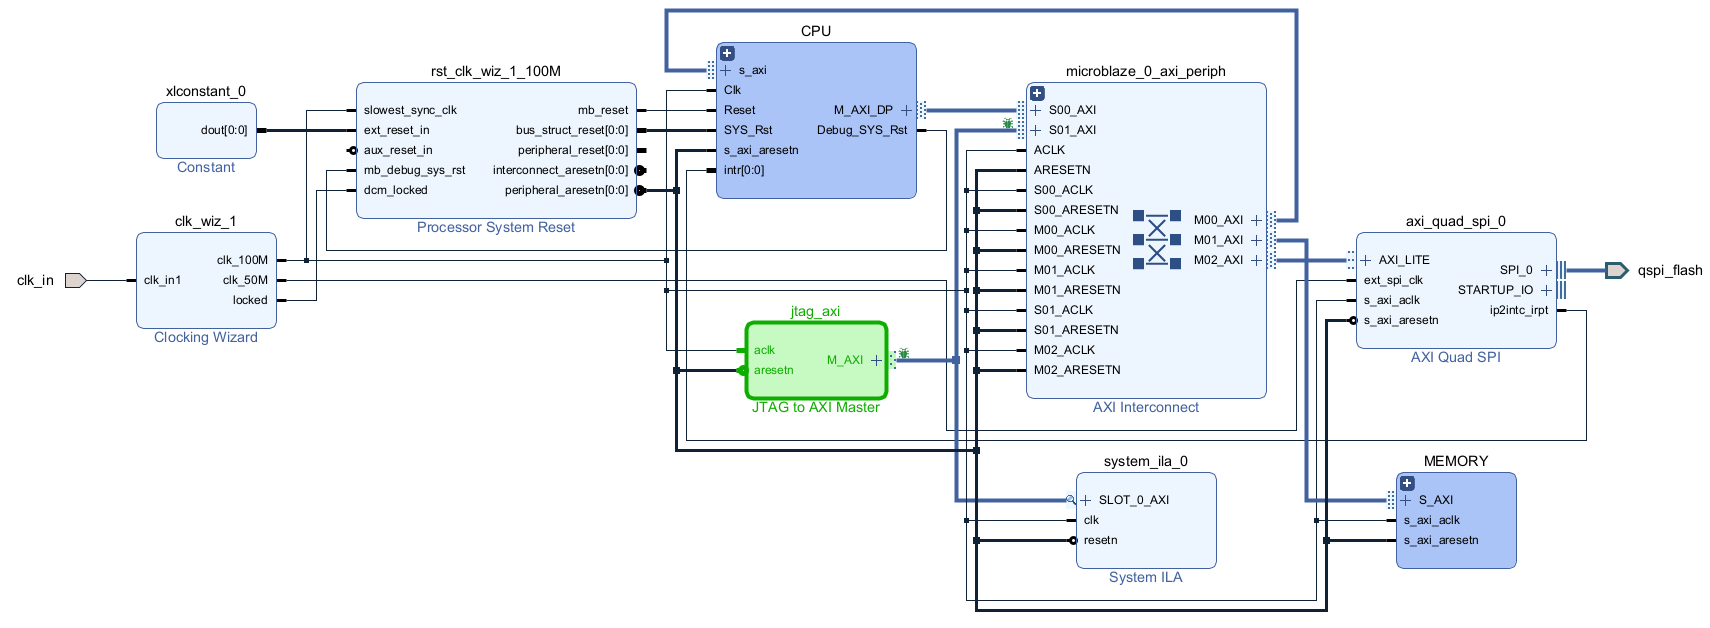
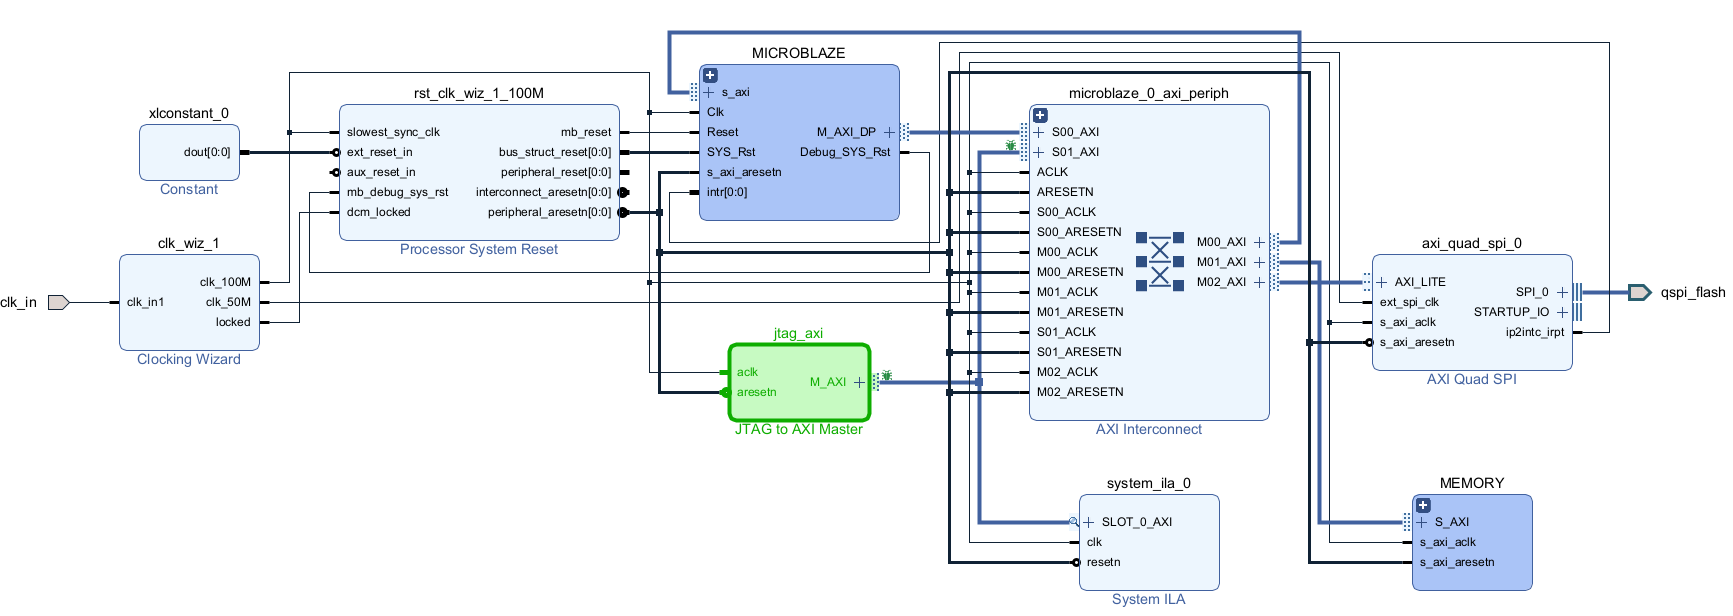
readme fix

Changed region(s): [[0.0, 0.0, 1.0, 0.987]]

diff --git a/README.md b/README.md
@@ -1,24 +1,30 @@
-# JTAG to AXI Master
+# JTAG to AXI Master IP
 
-Xilinx'in `JTAG to AXI Master` isimli bir IP'si var. Literatürde gördüğüm kadarıyla yaygınca kullanılan bir IP değil. Esasında debug amaçlı tasarlanmış bir IP. Özellikle birden fazla adres alanına tek bir yerden erişmek için kullanılır.
+Xilinx'in `JTAG to AXI Master` isimli bir IP'si var. Literatürde gördüğüm kadarıyla yaygınca kullanılan bir IP değil. Esasında debug amaçlı tasarlanmış bir IP. Özellikle birden fazla adres alanına `AXI-Lite` veya `AXI Memory Mapped` arayüzü ile tek bir yerden erişmek için kullanılıyor. Aşağıda JTAG to AXI Master IP'sinin proje içerisinde nasıl duracağı ile ilgili örnek bir figür var:
+
+![capture0](assets/figure1.drawio.png)
+
+JTAG to AXI Master IP'sinin **adres alanı (address space)** bulunmuyor. Bu yüzden istediği adrese yazma, istediği adresten okuma işlemini yapabiliyor. Bunu yaparken başka bir IP'yi projeden çıkarmamıza gerek kalmıyor.
+
+Temelde, bu IP sayesinde Vivado harici herhangi bir programa gerek kalmadan; FPGA programlandıktan sonra `TCL` komutu ile yukarıdaki görseldeki yapıyı koruyarak istediğimiz AXI-Lite veya AXI Memory Mapped slave arayüzüne erişebilmekteyiz.
 
 ## Motivasyon
 
-Mesela; proje gereği AXI IIC, AXI Quad SPI ve AXI Bram Controller IP'lerini kullanıyoruz. Bu durumda her biri için bir adres offset'i belirleniyor (Vivado veya kullanıcı tarafından). Bu adresler dikakt alınarak projenin gereği veya IP gereği olarak ilgili kısımlara ilgili veriler yazılır. Fakat henüz geliştirme aşamasında küçük denemeler yapabilmek için ilgili IP'ye AXI-Lite veya AXI Memory Mapped üzerinden erişmemiz gerekiyor. İşte bu IP sayesinde IP'lerin ilgili AXI arayüzlerine erişim sağlayabiliyoruz. Bunu yapmak için Vitis veya eski ismiyle Xilinx SDK veya işletim sistemine ihtiyacımız bulunmuyor.
+Mesela; proje gereği **AXI IIC**, **AXI Quad SPI** ve **AXI Bram Controller** IP'lerini kullanıyoruz. Bu durumda her biri için bir adres **offset'i** belirleniyor (Vivado veya kullanıcı tarafından). Bu adresler dikkate alınarak projenin veya IP'lerin gereği olarak ilgili kısımlara veriler yazılır. Fakat henüz geliştirme aşamasında küçük denemeler yapabilmek için ilgili IP'ye AXI-Lite veya AXI Memory Mapped üzerinden erişmemiz ve yazma/okuma yapmamız gerekiyor. İşte JTAG to AXI Master IP'si sayesinde projeye dahil IP'lerin ilgili **AXI arayüzlerine** erişim sağlayabiliyoruz. Bunu yapmak için **Vitis** veya eski ismiyle **Xilinx SDK** veya işletim sistemi gibi kompleks ve başka programlara ihtiyaç duyan çözümlere gerek olmuyor.
 
 ## Diğer Alternatifler
 
-Diğer alternatif çözümlerden de bahsetmek gerekir. Aşağıda diğer çözümlerin nasıl yapıldığı konusunda kısa anlatımlar yer almaktadır.
+Diğer alternatif çözümlerden de bahsetmek gerekir. Aşağıda diğer çözümler konusunda kısa anlatımlar yer alıyor:
 
-- Xilinx Vitis (eski adıyla Xilinx SDK) programının xsct desteği bulunmakta. Bunun için `MicroBlaze Debug Module (MDM)` IP'sine ihtiyaç var. Çeşitli işlemler sonrası `mwr` veya `mrd` komutlarıyla ilgili adreslere gerekli veriler yazılabilir.
-- Microblaze IP'sini tasarıma ekleyip Xilinx Vitis (veya Xilinx SDK) üzerinden `Memory` ekranını açarak ilgili adreslere gerekli veriler yazılabilir.
+- Xilinx Vitis (eski adıyla Xilinx SDK) programının **xsct** desteği bulunmakta. Bunun için `MicroBlaze Debug Module (MDM)` IP'sine ihtiyaç var. Çeşitli işlemler sonrası `mwr` veya `mrd` komutlarıyla ilgili adreslere gerekli veriler yazılabilir.
+- Microblaze IP'sini tasarıma ekleyip Xilinx Vitis (veya Xilinx SDK) üzerinden `Memory` ekranını açarak ilgili adreslere gerekli veriler GUI yardımıyla yazılabilir.
 - İşletim sistemi kurabildiğimiz kartlarda `devmem` kullanılabilir.
 
 ## JTAG to AXI Master IP'sinin Avantajları
 
 Bu IP'nin en büyük avantajı Vivado haricinde herhangi bir programa veya ekrana ihtiyaç duymamamız. Yani bu IP'yi Vivado yoluyla FPGA'i programladıktan sonra `tcl console` kısmını kullanarak kullanabiliyoruz.
 
-Fakat diğer çözümlerde ekstra olarak bir sürü işlem yapmak gerekebiliyor veya birden fazla programa ihtiyaç duyabiliyoruz. Bu yüzden erken aşama geliştirmelerinde bu IP'yi kullanmak çok mantıklı bir araç haline geliyor.
+Öte yandan, diğer çözümlerde ekstra olarak bir sürü işlem yapmak gerekebiliyor veya birden fazla programa ihtiyaç duyabiliyoruz. Bu yüzden erken aşama geliştirmelerinde bu IP'yi kullanmak çok mantıklı bir araç haline geliyor.
 
 ## Nasıl Kullanabiliriz
 
@@ -26,29 +32,29 @@ Fakat diğer çözümlerde ekstra olarak bir sürü işlem yapmak gerekebiliyor 
 
 ![capture1](assets/Capture1.png)
 
-Yukarıda MICROBLAZE ile belirtilen subblock içerisinde Microblaze ve diğer gerekli IP'ler bulunmaktadır. MEMORY ile belirtilen kısımda Block Memory Generator ve AXI BRAM controller IP'leri yer almaktadır.
+Yukarıda `MICROBLAZE` ile belirtilen subblock içerisinde Microblaze ve diğer gerekli IP'ler bulunmaktadır. `MEMORY` ile belirtilen kısımda Block Memory Generator ve AXI BRAM controller IP'leri yer almaktadır.
 
-Yeşil ile belirtilen IP üzerine çalışacağımız IP yani JTAG to AXI Master IP'si. Fark edileceği üzere AXI ile erişebildiğimiz iki IP var. Biri AXI Quad SPI, diğeri ise MEMORY subblock'u.
+Yeşil ile belirtilen IP, üzerine çalışacağımız IP yani JTAG to AXI Master IP'si. Fark edileceği üzere AXI ile erişebildiğimiz iki IP var. Biri AXI Quad SPI, diğeri ise MEMORY subblock'u.
 
-Ayrıca AXI transactionları daha iyi gözlemleyebilmek adına ILA bağladım. Bu sayede AXI Memory Mapped arayüz ayarlandığında burst veri akışını doğrulayacağız. AXI-lite arayüz ayarında ise sadece veri akışını gözlemleyebileceğiz.
+Ayrıca AXI transactionları daha iyi gözlemleyebilmek adına `ILA` bağladım. Bu sayede AXI Memory Mapped arayüz ayarlandığında **burst** veri akışını doğrulayacağız. AXI-lite arayüz ayarında ise sadece veri akışını gözlemleyebileceğiz.
 
-Aşağıda da IP ayarları mevcut. Görüleceği üzere konfigüre etmesi çok kolay. Tek yapmamız gereken ihtiyaca göre AXI-Lite veya AXI Memory Mapped buslarından birini seçmek. Burst veri aktarımı isteniyorsa AXI Memory Mapped seçilmeli. Yoksa AXI-Lite seçilmesi IP'nin harcayacağı kaynak açısından daha verimli olacaktır.
+Aşağıda IP ayarları mevcut. Görüleceği üzere konfigüre etmesi çok kolay. Tek yapmamız gereken ihtiyaca göre AXI-Lite veya AXI Memory Mapped buslarından birini seçmek. Burst veri aktarımı isteniyorsa `AXI4` seçilmeli. Böyle bir istek veya gerek yoksa `AXI4LITE` seçilmesi IP'nin harcayacağı kaynak açısından daha verimli olacaktır.
 
 ![capture2](assets/Capture2.png)
 
-Her ne kadar bu IP'yi erken aşama geliştirme aşamalarında kullansak da projenin son halinde de tasarım içerisinde kalabilir. Yani mesela Microblaze kullandığımız bir proje düşünelim. Normalde projenin son halinde Vitis üzerinden yazacağımız kod ile AXI Quad SPI IP'sini konfigüre edebiliriz veya veri okuma-yazma yapılacak. Yine de bu IP proje içerisinde Microblaze üzerinde çalışan kod ile birlikte bulunabilir. Böylece geliştirme aşaması sonrası çıkabilecek problemlerde hızlıca kullanabileceğimiz bir debug IP'si gibi yer alır.
+Her ne kadar bu IP'yi erken aşama geliştirme aşamalarında kullansak da projenin son halinde de tasarım içerisinde bırakabiliriz. Mesela **Microblaze** kullandığımız bir proje düşünelim. Normalde projenin son halinde Vitis üzerinden yazacağımız kod ile AXI Quad SPI IP'sini konfigüre edebiliriz veya veri okuma-yazma yapabiliriz. Yine de bu IP, proje içerisinde Microblaze üzerinde çalışan kod ile birlikte bulunabilir. Böylece geliştirme aşaması sonrası çıkabilecek problemlerde hızlıca kullanabileceğimiz bir alternatif olabilir.
 
-Burada ILA veya VIO'dan farkımız çok daha az kaynak harcayarak real-time (gerçek zamanlı) debugging yapabilmemiz.
+Burada **ILA** veya **VIO'dan** farkımız çok daha az kaynak harcayarak gerçek zamanlı (real-time) debugging yapabilmemiz ve AXI gibi fazlaca portu bulunan bir bus'ı rahatlıkla sürebilmemiz.
 
 Aşağıda adres editör kısmını paylaştım. Gerçek zamanlı denemeleri yaparken buradaki adresleri offset olarak kullanacağız.
 
 ![capture3](assets/Capture3.png)
 
-Tasarıma ait bitstream oluşturulduktan ve Vivado Hardware Manager yöntemi ile FPGA programlandıktan sonra soldaki Hardware kısmı aşağıdaki gibi gözükür. İkinci sırada da gözüktüğü üzere JTAG to AXI Master IP'sini hardware tanımaktadır. Bu durum ILA ve VIO gibi IP'lerde de mevcuttur.
+Tasarıma ait bitstream oluşturulduktan ve Vivado Hardware Manager yöntemi ile FPGA programlandıktan sonra soldaki `Hardware` kısmı aşağıdaki gibi gözükür. İkinci sırada da gözüktüğü üzere JTAG to AXI Master IP'sini hardware tanımaktadır. Bu durum ILA ve VIO gibi IP'lerde de mevcuttur.
 
 ![capture4](assets/Capture4.png)
 
-Bu noktadan sonra aşağıda bulunan TCL console'u kullanarak bağlı olduğumuz AXI Interconnect'e (veya AXI Smartconnect) bağlı IP'lere erişebilmemiz mümkün.
+Bu noktadan sonra aşağıda bulunan adımları takip ederek bağlı olduğumuz `AXI Interconnect`'e (veya AXI Smartconnect) bağlı IP'lere erişebilmemiz mümkün.
 
 ## AXI-Lite Arayüz Ayarı
 
@@ -61,11 +67,11 @@ create_hw_axi_txn $bram_wt [get_hw_axis hw_axi_1] -type write -address $addr_bra
 run_hw_axi [get_hw_axi_txns $bram_wt]
 ```
 
-Aşağıda her bir komutun ne anlama geldiği belirtilmiştir.
+Aşağıda her bir komutun ne anlama geldiği belirtilmiştir:
 
 - `set addr_bram 0xC0000000`: Adres tanımlaması bir değişkene atanır. Bu örnekte BRAM'in offset adresi verilmiştir.
 - `set bram_wt bram_wt`: Transaction objesi tanımlanmış ve bir değişkene atanmıştır.
-- `create_hw_axi_txn...`: Write transaction oluşturulur. Henüz veri gönderme işlemi vs. yapılmaz. Yapılacak transaction ile ilgili tanımlamalar yapılır ve transaction objesine eklenir.
+- `create_hw_axi_txn...`: Write transaction oluşturulur. Henüz veri gönderme işlemi vs. yapılmaz. Yapılacak transaction ile ilgili tanımlamalar yapılır ve transaction objesine tanıtılır.
 - `run_hw_axi...`: Write transaction gerçekleştirilir.
 
 Komutları çalıştırdıktan sonra TCL satırları aşağıdaki gibi gözükür:
@@ -110,7 +116,7 @@ Komutları çalıştırdıktan sonra TCL satırları aşağıdaki gibi gözükü
 
 ![capture9](assets/Capture9.png)
 
-Ayrıca, oluşturduğumuz bu transaction ILA'da aşağıdaki gibi gözükmekte. AXI-Lite arayüzünden farklı olarak burst veri akışı gerçekleşmekte:
+Ayrıca, oluşturduğumuz bu transaction ILA'da aşağıdaki gibi gözükmekte. AXI-Lite arayüzünden farklı olarak burst veri akışı gerçekleşir:
 
 ![capture10](assets/Capture10.png)
 
@@ -135,6 +141,6 @@ Yazdığımız verileri aynı şekilde okuyabildik.
 
 ## Son Görüşler
 
-IP'ye ilk bakarken çok önyargılıydım. XSCT, Vitis gibi çözümler dururken mantıksız gelmişti ama kullandıkça fark ettim ki geliştirmenin ilk aşamalarında kullanışlı olabilir. Kullanması ve öğrenmesi de gayet kolay. Sadece Vivado ile AXI arayüzü olan IP'leri konfigüre edebiliyoruz veya ilgili kısımlarına veri yazabiliyoruz.
+IP'ye ilk bakarken çok önyargılıydım. `xsct`, `Vitis` gibi çözümler dururken mantıksız gelmişti ama kullandıkça fark ettim ki geliştirmenin ilk aşamalarında kullanışlı olabilir. Kullanması ve öğrenmesi de gayet kolay. Sadece Vivado ile AXI arayüzü olan IP'leri konfigüre edebiliyoruz veya ilgili kısımlarına veri yazabiliyoruz.
 
 Kısa tcl kodları yazarak birçok işi diğer çözümler veya programlar olmadan yapabiliriz. Sonuç olarak kullanmaya değer buldum.
